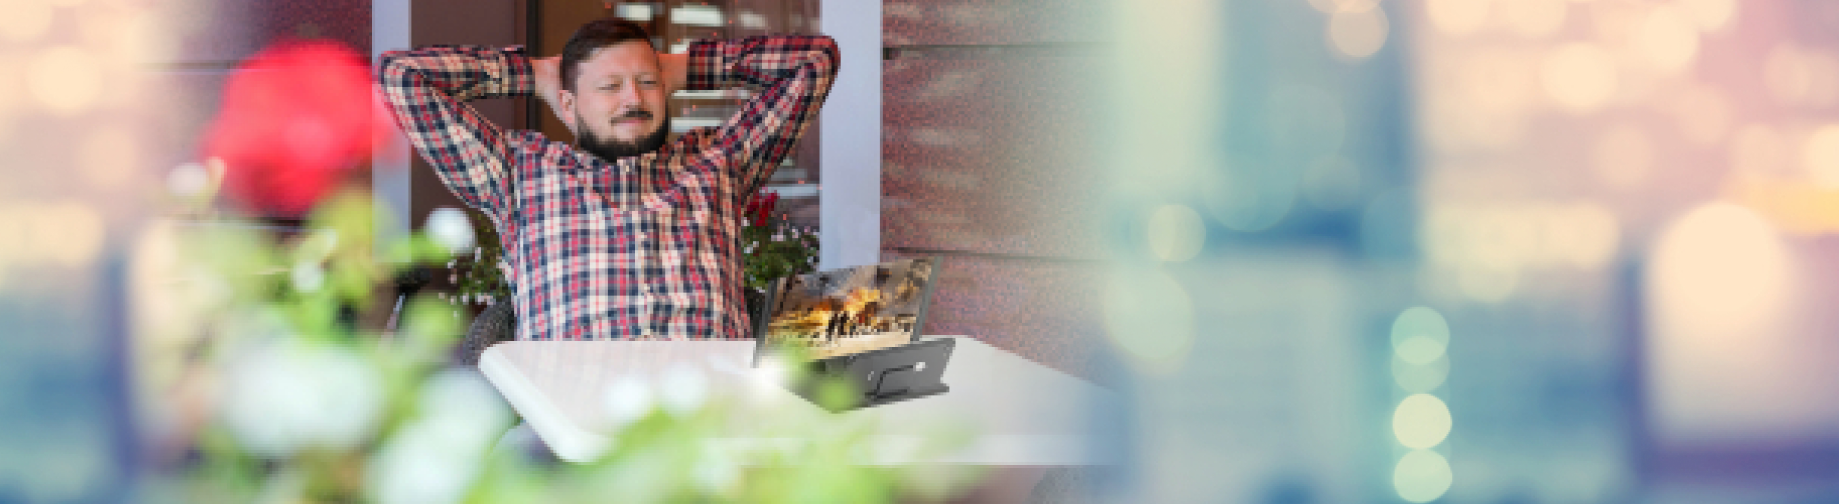
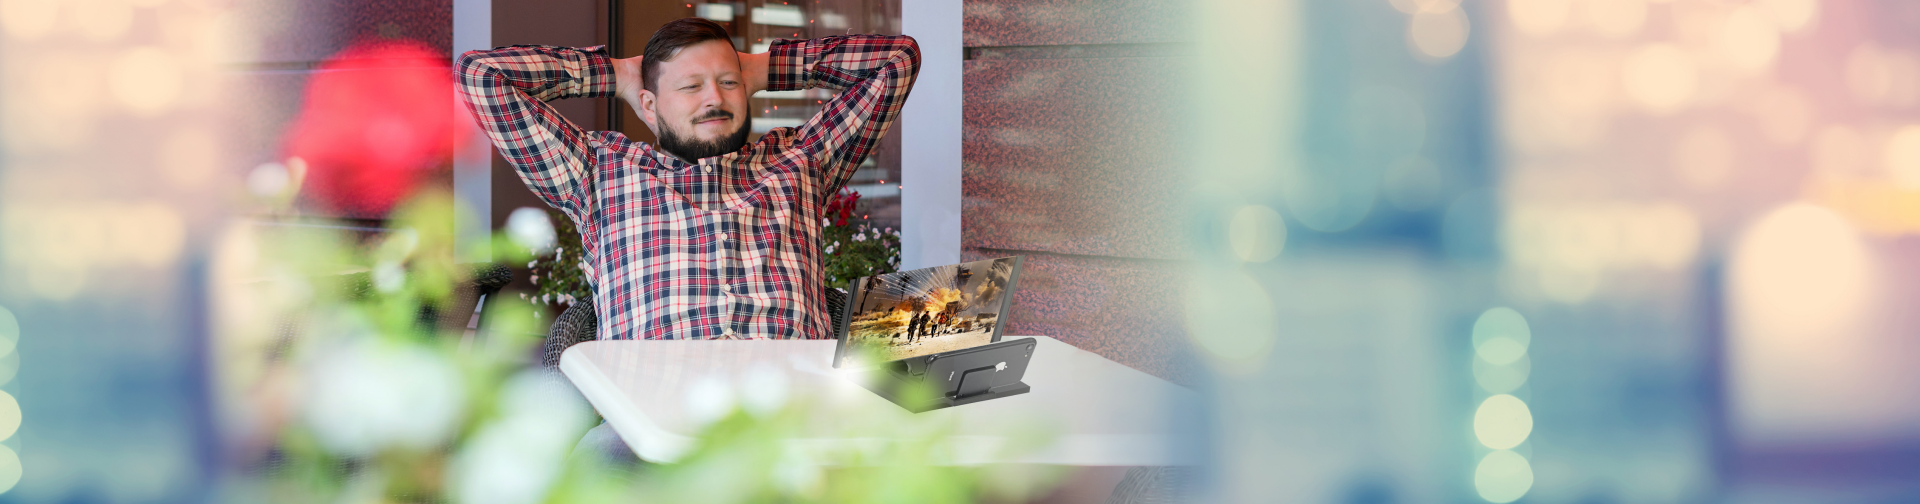
g

diff --git a/magnifier/apadt/ru/styles/css/main.css b/magnifier/apadt/ru/styles/css/main.css
@@ -1,2 +1,2 @@
-html{font-size:20.833333vw;overflow-x:hidden}@media (min-width: 481px){html{font-size:100px}}body{font-size:.20rem;margin:auto;position:relative;line-height:1.4;font-weight:300;font-family:'Open Sans', sans-serif;color:#fff;overflow-x:hidden;-webkit-box-shadow:0 0 2px 2px rgba(0,0,0,0.25);box-shadow:0 0 2px 2px rgba(0,0,0,0.25)}body input,body textarea{outline:none}body input:focus:required:invalid,body textarea:focus:required:invalid{border-color:red}body input:required:valid,body textarea:required:valid{border-color:green}.play{font-family:'Playfair Display', sans-serif}section{padding:.3rem 0}.img-wrap{display:-webkit-box;display:-ms-flexbox;display:flex;-webkit-box-align:center;-ms-flex-align:center;align-items:center;-webkit-box-pack:center;-ms-flex-pack:center;justify-content:center}.img-wrap img{width:100%}.img-wrap.pad{padding:.2rem 0}.img-wrap.mar{margin:.2rem 0}.content{padding:0 .13rem;max-width:13rem;margin:0 auto}.bg-light{background-color:#c7ebf5}.no-pad{margin-left:-0.13rem;margin-right:-0.13rem;display:block;width:4.8rem}.heading{padding:.2rem 0}h2{text-align:center;font-size:0.30rem;font-weight:800;margin:0 0 0.2rem 0;bottom:.5rem;line-height:1.3}h2.right{text-align:right}h2.big{font-size:0.4rem}h2.black{color:#000}h2.vait{color:vait}h2 span{color:#0077C0}h2.upp{text-transform:uppercase}h2 b.prod{text-transform:uppercase;font-weight:bold}h2 .offer{text-transform:uppercase}.sub-title{font-style:italic;font-size:0.2rem;color:#323842}.t-center{text-align:center}.t-white{color:#fff}span.accent{color:#0077C0}h2+p{margin-top:0}.btn{display:-webkit-box;display:-ms-flexbox;display:flex;-webkit-box-orient:horizontal;-webkit-box-direction:normal;-ms-flex-direction:row;flex-direction:row;-webkit-box-pack:center;-ms-flex-pack:center;justify-content:center;-webkit-box-align:center;-ms-flex-align:center;align-items:center;-ms-flex-wrap:nowrap;flex-wrap:nowrap;border-radius:0px 0px 5px 5px;background-image:url(../../img/button.png);background-size:cover;color:#000000;text-transform:uppercase;font-weight:800;text-decoration:none;font-size:0.2rem;border:none;height:1.48rem;width:4.26rem;margin:0 auto;position:relative;margin-bottom:-0.1rem;background-color:transparent}.btn span{position:relative;padding-bottom:0.35rem}.border__top{width:4.8rem;position:absolute;top:-0.28rem;left:0;right:0}.border__bot{width:4.8rem;position:absolute;bottom:-0.28rem;left:0;right:0}@-webkit-keyframes btn{0%{-webkit-transform:scale(1);transform:scale(1)}50%{-webkit-transform:scale(1.06);transform:scale(1.06)}100%{-webkit-transform:scale(1);transform:scale(1)}}@keyframes btn{0%{-webkit-transform:scale(1);transform:scale(1)}50%{-webkit-transform:scale(1.06);transform:scale(1.06)}100%{-webkit-transform:scale(1);transform:scale(1)}}.pulse__btn{position:fixed;right:0.2rem;display:inline-block;bottom:0.2rem;z-index:12;-webkit-box-shadow:0 0 0 rgba(11,138,44,0.4);box-shadow:0 0 0 rgba(11,138,44,0.4);width:0.7rem;height:0.7rem;border-radius:50%;-webkit-animation:pulse 2s infinite;animation:pulse 2s infinite;-webkit-transition:all .9s ease;transition:all .9s ease}.pulse__btn.show{right:-100%}.pulse__btn img{width:100%}img{width:100%}input[type="number"]::-webkit-outer-spin-button,input[type="number"]::-webkit-inner-spin-button{-webkit-appearance:none;margin:0}input[type="number"]{-moz-appearance:textfield}input[type="number"]:hover,input[type="number"]:focus{-moz-appearance:number-input}input[type=number]::-webkit-inner-spin-button,input[type=number]::-webkit-outer-spin-button{-webkit-appearance:none;margin:0}form{-webkit-box-sizing:border-box;box-sizing:border-box;margin:auto;display:-webkit-box;display:-ms-flexbox;display:flex;-webkit-box-align:center;-ms-flex-align:center;align-items:center;-webkit-box-orient:vertical;-webkit-box-direction:normal;-ms-flex-direction:column;flex-direction:column;padding-top:0.1rem}input,textarea{height:.75rem;width:3.9rem;padding-left:0.3rem;-webkit-box-sizing:border-box;box-sizing:border-box;border-radius:4px;font-size:0.16rem;color:#000;border:none;margin-bottom:0.4rem;background:#FFFFFF;border-radius:1px;background:#FFFFFF;-webkit-box-shadow:inset 0px 4px 15px rgba(0,0,0,0.15);box-shadow:inset 0px 4px 15px rgba(0,0,0,0.15);font-weight:normal;border-radius:40px;margin-bottom:0.1rem;line-height:1.8}@media (min-width: 772px){input,textarea{margin-bottom:0.1rem}}[name="phone"]{margin-bottom:0.2rem}input::-webkit-input-placeholder{font-size:0.22rem;font-family:inherit}input:-ms-input-placeholder{font-size:0.22rem;font-family:inherit}input::-ms-input-placeholder{font-size:0.22rem;font-family:inherit}input::placeholder{font-size:0.22rem;font-family:inherit}.policy_wrap{display:-webkit-box;display:-ms-flexbox;display:flex;-webkit-box-align:center;-ms-flex-align:center;align-items:center;-webkit-box-pack:center;-ms-flex-pack:center;justify-content:center;-webkit-box-orient:vertical;-webkit-box-direction:normal;-ms-flex-direction:column;flex-direction:column;min-height:1rem;background-color:#3b3c3d;font-size:0.16rem;color:#fff;text-align:center}.policy_wrap a{color:#7c7e86}@-webkit-keyframes pulse{0%{-webkit-box-shadow:0 0 0 rgba(11,138,44,0.4);box-shadow:0 0 0 rgba(11,138,44,0.4);transform:scale(1);-webkit-transform:scale(1);-moz-transform:scale(1);-ms-transform:scale(1);-o-transform:scale(1)}70%{-webkit-box-shadow:0 0 0 30px rgba(11,138,44,0);box-shadow:0 0 0 30px rgba(11,138,44,0);transform:scale(0.95);-webkit-transform:scale(0.95);-moz-transform:scale(0.95);-ms-transform:scale(0.95);-o-transform:scale(0.95)}100%{-webkit-box-shadow:0 0 0 0 rgba(11,138,44,0);box-shadow:0 0 0 0 rgba(11,138,44,0);-webkit-transform:scale(1);transform:scale(1)}}@keyframes pulse{0%{-webkit-box-shadow:0 0 0 rgba(11,138,44,0.4);box-shadow:0 0 0 rgba(11,138,44,0.4);transform:scale(1);-webkit-transform:scale(1);-moz-transform:scale(1);-ms-transform:scale(1);-o-transform:scale(1)}70%{-webkit-box-shadow:0 0 0 30px rgba(11,138,44,0);box-shadow:0 0 0 30px rgba(11,138,44,0);transform:scale(0.95);-webkit-transform:scale(0.95);-moz-transform:scale(0.95);-ms-transform:scale(0.95);-o-transform:scale(0.95)}100%{-webkit-box-shadow:0 0 0 0 rgba(11,138,44,0);box-shadow:0 0 0 0 rgba(11,138,44,0);-webkit-transform:scale(1);transform:scale(1)}}@-webkit-keyframes arrows{0%{-webkit-transform:translateX(0) translateY(-50%);transform:translateX(0) translateY(-50%)}50%{-webkit-transform:translateX(0.1rem) translateY(-50%);transform:translateX(0.1rem) translateY(-50%)}100%{-webkit-transform:translateX(0) translateY(-50%);transform:translateX(0) translateY(-50%)}}@keyframes arrows{0%{-webkit-transform:translateX(0) translateY(-50%);transform:translateX(0) translateY(-50%)}50%{-webkit-transform:translateX(0.1rem) translateY(-50%);transform:translateX(0.1rem) translateY(-50%)}100%{-webkit-transform:translateX(0) translateY(-50%);transform:translateX(0) translateY(-50%)}}@-webkit-keyframes arrows-reverse{0%{-webkit-transform:translateX(0) translateY(-50%);transform:translateX(0) translateY(-50%)}50%{-webkit-transform:translateX(-0.1rem) translateY(-50%);transform:translateX(-0.1rem) translateY(-50%)}100%{-webkit-transform:translateX(0) translateY(-50%);transform:translateX(0) translateY(-50%)}}@keyframes arrows-reverse{0%{-webkit-transform:translateX(0) translateY(-50%);transform:translateX(0) translateY(-50%)}50%{-webkit-transform:translateX(-0.1rem) translateY(-50%);transform:translateX(-0.1rem) translateY(-50%)}100%{-webkit-transform:translateX(0) translateY(-50%);transform:translateX(0) translateY(-50%)}}.reviews__item{padding:.2rem;background-color:#fff;-webkit-box-shadow:0px 0px 10px rgba(0,0,0,0.25);box-shadow:0px 0px 10px rgba(0,0,0,0.25);margin:0.1rem;position:relative}.reviews__item:before{content:'';position:absolute;left:0;top:0.22rem;height:0.5rem;width:4px;background:#306EC7}.reviews__item:after{content:url(../../img/que.png);width:0.3rem;position:absolute;top:0.3rem;right:0.4rem}.reviews__item .name{margin-bottom:0;font-weight:bold}.reviews__title{font-weight:600;text-transform:uppercase}.owl-carousel .owl-dots{padding:0.2rem 0;display:-webkit-box;display:-ms-flexbox;display:flex;-webkit-box-pack:center;-ms-flex-pack:center;justify-content:center;-webkit-box-align:center;-ms-flex-align:center;align-items:center}.owl-carousel .owl-dots button{width:0.46rem;height:0.1rem;border-radius:20px;outline:none;background-color:#fff;margin:0 3px}.owl-carousel .owl-dots button.active{background-color:#306EC7}.timer{color:#000}.timer__wrapper,.timer__desc{display:-webkit-box;display:-ms-flexbox;display:flex;-webkit-box-orient:horizontal;-webkit-box-direction:normal;-ms-flex-direction:row;flex-direction:row;-ms-flex-pack:distribute;justify-content:space-around;-webkit-box-align:center;-ms-flex-align:center;align-items:center;-ms-flex-wrap:nowrap;flex-wrap:nowrap;font-size:0.43rem;max-width:3.0rem;font-weight:300;margin:auto}.timer__wrapper>div,.timer__desc>div{width:1rem;text-align:center;font-weight:bold}.timer__title{text-align:center;margin:0 0 0.23rem}@media (min-width: 772px){.timer__title{margin-bottom:0.1rem}}.timer__desc{font-size:0.16rem;font-weight:300;text-transform:uppercase}.timer__desc span{display:inline-block;width:1rem;text-align:center}.intro{background:#efefef;padding-bottom:0.1rem}@media (min-width: 772px){.intro{background-image:url(../../img/header_desc.png);background-size:cover;background-position:-4rem;display:-webkit-box;display:-ms-flexbox;display:flex;-webkit-box-orient:vertical;-webkit-box-direction:normal;-ms-flex-direction:column;flex-direction:column;-webkit-box-pack:center;-ms-flex-pack:center;justify-content:center;-webkit-box-align:center;-ms-flex-align:center;align-items:center;-ms-flex-wrap:nowrap;flex-wrap:nowrap;position:relative}.intro:before{content:url(../../img/prod.png);position:absolute;left:0;bottom:-10px}}@media (min-width: 772px){.intro__top{width:100%}}.intro__top p:first-child{height:0.78rem;text-align:center;margin:0;display:-webkit-box;display:-ms-flexbox;display:flex;-webkit-box-orient:horizontal;-webkit-box-direction:normal;-ms-flex-direction:row;flex-direction:row;-webkit-box-pack:center;-ms-flex-pack:center;justify-content:center;-webkit-box-align:center;-ms-flex-align:center;align-items:center;-ms-flex-wrap:nowrap;flex-wrap:nowrap;background:-webkit-gradient(linear, left top, left bottom, from(#e9622a), to(#ed3233));background:linear-gradient(180deg, #e9622a 0%, #ed3233 100%);font-weight:800;font-size:0.35rem;line-height:0.48rem;text-align:center;text-transform:uppercase}.intro__top p:last-child{width:100%;margin:0;background-color:#fff;width:100%;padding:.1rem;color:#000;text-align:center;text-transform:uppercase;font-weight:bold}.intro__main{position:relative;background-image:url(../../img/intro.jpg);height:3.9rem;background-size:cover}@media (min-width: 481px){.intro__main{height:6rem}}@media (min-width: 772px){.intro__main{background-image:none;height:0;width:100%}}.intro__trigger .sale{position:absolute;top:0.32rem;right:0;background-image:url(../../img/intro_new.png);font-size:0.18rem;background-size:cover;width:1.6rem;height:0.84rem;background-repeat:no-repeat;display:-webkit-box;display:-ms-flexbox;display:flex;-webkit-box-orient:vertical;-webkit-box-direction:normal;-ms-flex-direction:column;flex-direction:column;-webkit-box-pack:center;-ms-flex-pack:center;justify-content:center;-webkit-box-align:center;-ms-flex-align:center;align-items:center;-ms-flex-wrap:nowrap;flex-wrap:nowrap}@media (min-width: 772px){.intro__trigger .sale{background-image:url(../../img/plank.png);position:absolute;top:0;left:10%}}@media (max-width: 480px){.intro__trigger .sale{right:0}}.intro__trigger .sale b{font-size:0.13rem;font-weight:bold;display:block}.intro__trigger .sale b:last-child{font-size:0.2rem}.intro__footer{text-align:center;padding-bottom:0.2rem;margin:0 0.3rem;color:#000;font-weight:bold}@media (min-width: 772px){.intro__footer{max-width:4.8rem;margin-left:auto;margin-right:auto;padding:0 .3rem;-webkit-box-sizing:border-box;box-sizing:border-box}.intro__footer p{margin-bottom:0}}.intro__item{margin:0 0.15rem;-webkit-box-sizing:border-box;box-sizing:border-box;font-size:0.18rem}.intro__item img{width:0.76rem;-ms-flex-negative:0;flex-shrink:0}.intro__item p{margin:0}.intro__wrapper{position:relative}@media (min-width: 772px){.intro__wrapper{margin-left:auto;margin-right:10%;margin-top:0.4rem;margin-bottom:0.4rem;width:4.8rem;margin-left:auto;background-color:#F1F1F1;display:-webkit-box;display:-ms-flexbox;display:flex;-webkit-box-orient:vertical;-webkit-box-direction:normal;-ms-flex-direction:column;flex-direction:column;-webkit-box-pack:center;-ms-flex-pack:center;justify-content:center;-webkit-box-align:center;-ms-flex-align:center;align-items:center;-ms-flex-wrap:nowrap;flex-wrap:nowrap;border-radius:20px;-webkit-box-sizing:border-box;box-sizing:border-box}.intro__wrapper .btn{margin-left:auto;margin-right:auto;width:4rem}}.intro__bottom{-webkit-box-sizing:border-box;box-sizing:border-box;padding-bottom:0.2rem}.price{max-width:4.8rem;background-image:url(../../img/sale.png);background-size:cover;display:-webkit-box;display:-ms-flexbox;display:flex;-webkit-box-orient:horizontal;-webkit-box-direction:normal;-ms-flex-direction:row;flex-direction:row;-ms-flex-pack:distribute;justify-content:space-around;-webkit-box-align:center;-ms-flex-align:center;align-items:center;-ms-flex-wrap:nowrap;flex-wrap:nowrap;height:1.58rem;margin:0;position:relative;margin-top:-0.28rem;text-align:center;line-height:0.32rem;font-weight:bold;color:#000;margin-left:auto;margin-right:auto}.price div{width:1.6rem}.price .old{color:#9a9999}.price .old s{font-weight:normal}.price p{margin:0;font-size:0.15rem;padding-bottom:0.1rem}.price .discount{padding-right:0.1rem;padding-top:0.3rem;color:#fff}.price .discount p{font-weight:normal}.price .discount b{font-weight:800;font-size:0.45rem}.price b,.price s{font-size:0.6rem}.sect5{color:#000}.sect5__grid{display:-ms-grid;display:grid;-ms-grid-columns:(1fr)[2];grid-template-columns:repeat(2, 1fr);text-align:center;grid-gap:0.19rem;padding-top:0.35rem;font-size:0.22rem;max-width:800px;margin:0 auto}.sect5__grid b{display:block}.sect5__grid p{margin-top:0;font-weight:400;line-height:0.26rem}@media (min-width: 772px){.sect5__row{max-width:50%;-ms-grid-column-align:center;justify-self:center}}.sect5 img{width:1.16rem;padding-bottom:0.24rem}.builets{margin-top:0.6rem;max-width:4.8rem;margin-left:auto;margin-right:auto;display:-webkit-box;display:-ms-flexbox;display:flex;-webkit-box-orient:horizontal;-webkit-box-direction:normal;-ms-flex-direction:row;flex-direction:row;-ms-flex-pack:distribute;justify-content:space-around;-webkit-box-align:center;-ms-flex-align:center;align-items:center;-ms-flex-wrap:nowrap;flex-wrap:nowrap}@media (min-width: 772px){.builets{padding:0 .15rem;-webkit-box-sizing:border-box;box-sizing:border-box;width:4.8rem}}.builets__item{display:-webkit-box;display:-ms-flexbox;display:flex;-webkit-box-orient:horizontal;-webkit-box-direction:normal;-ms-flex-direction:row;flex-direction:row;-webkit-box-pack:center;-ms-flex-pack:center;justify-content:center;-webkit-box-align:end;-ms-flex-align:end;align-items:flex-end;-ms-flex-wrap:nowrap;flex-wrap:nowrap;background-color:#ffffff;width:1.44rem;height:1.32rem;border-radius:20px;position:relative;padding:0.2rem;-webkit-box-sizing:border-box;box-sizing:border-box}.builets__item img{height:0.78rem;width:0.79rem;-ms-flex-negative:0;flex-shrink:0;position:absolute;left:0;right:0;margin:0 auto;top:0;-webkit-transform:translateY(-50%);transform:translateY(-50%)}.builets__item p{text-align:center;color:#000;margin:0;font-weight:bold}.sect1{background:-webkit-gradient(linear, left top, left bottom, from(#ba1a5d), color-stop(99.39%, #306ec7));background:linear-gradient(180deg, #ba1a5d 0%, #306ec7 99.39%);padding-bottom:0}@media (min-width: 1200px){.sect1{padding:.4rem 0;padding-top:1rem}}.sect1 p{margin:0 0 0.34rem 0;font-weight:normal}.sect1__list{display:-webkit-box;display:-ms-flexbox;display:flex;-webkit-box-orient:vertical;-webkit-box-direction:normal;-ms-flex-direction:column;flex-direction:column;-webkit-box-pack:start;-ms-flex-pack:start;justify-content:flex-start;-webkit-box-align:stretch;-ms-flex-align:stretch;align-items:stretch;-ms-flex-wrap:nowrap;flex-wrap:nowrap;padding-top:0.3rem}@media (min-width: 481px){.sect1__list{margin:0 auto;max-width:4.8rem}}@media (min-width: 1200px){.sect1__list{display:-ms-grid;display:grid;-ms-grid-columns:(1fr)[2];grid-template-columns:repeat(2, 1fr);max-width:100%}}.sect1__item{margin-bottom:0.3rem;display:-webkit-box;display:-ms-flexbox;display:flex;-webkit-box-orient:horizontal;-webkit-box-direction:normal;-ms-flex-direction:row;flex-direction:row;-webkit-box-pack:start;-ms-flex-pack:start;justify-content:flex-start;-webkit-box-align:stretch;-ms-flex-align:stretch;align-items:stretch;-ms-flex-wrap:nowrap;flex-wrap:nowrap}.sect1__item img{width:0.52rem;-ms-flex-negative:0;flex-shrink:0}.sect1__item p{font-weight:bold;padding-left:0.1rem;-ms-flex-item-align:center;-ms-grid-row-align:center;align-self:center;margin:0}@media (min-width: 481px){.sect1 .no-pad{margin:0 auto;-ms-flex-negative:0;flex-shrink:0}}@media (min-width: 1200px){.sect1 .content{display:-webkit-box;display:-ms-flexbox;display:flex;-webkit-box-orient:horizontal;-webkit-box-direction:normal;-ms-flex-direction:row;flex-direction:row;-webkit-box-pack:start;-ms-flex-pack:start;justify-content:flex-start;-webkit-box-align:start;-ms-flex-align:start;align-items:flex-start;-ms-flex-wrap:nowrap;flex-wrap:nowrap}.sect1 .content .no-pad{margin-right:0.2rem;width:50%}}.sect2{background-color:#f1f1f1;color:#000;padding-bottom:0;margin-bottom:-0.1rem}.sect2__content{padding:0 0.2rem}@media (max-width: 1100px){.sect2__content .man{display:none}}@media (min-width: 481px){.sect2__content{display:-webkit-box;display:-ms-flexbox;display:flex;-webkit-box-orient:vertical;-webkit-box-direction:normal;-ms-flex-direction:column;flex-direction:column;-webkit-box-pack:center;-ms-flex-pack:center;justify-content:center;-webkit-box-align:center;-ms-flex-align:center;align-items:center;-ms-flex-wrap:nowrap;flex-wrap:nowrap}}@media (min-width: 1100px){.sect2__content{display:-ms-grid;display:grid;-ms-grid-columns:(4.8rem)[2];grid-template-columns:repeat(2, 4.8rem);-webkit-box-pack:center;-ms-flex-pack:center;justify-content:center;max-width:8rem;margin:0 auto}.sect2__content img{width:100%}.sect2__content img.another{width:100%}}.sect2 img{max-width:4.8rem}.sect2 img.another{width:4.8rem;display:block}@media (max-width: 480px){.sect2 img.another{width:4.2rem;margin:0 auto}}.sect2__item{-webkit-box-shadow:0px 0px 10px rgba(0,0,0,0.25);box-shadow:0px 0px 10px rgba(0,0,0,0.25);border-radius:10px;background-color:#fff;line-height:1.3;margin:0.1rem;margin-bottom:0.2rem;margin-right:0.2rem;position:relative;z-index:2;max-width:4.6rem;-webkit-box-sizing:border-box;box-sizing:border-box}@media (min-width: 1400px){.sect2__item{-ms-flex-negative:0;flex-shrink:0}}.sect2__item:before{content:"";position:absolute;top:0rem;bottom:0rem;right:-0.1rem;width:0.4rem;border-radius:10px;background:-webkit-gradient(linear, left top, left bottom, from(#ba1a5d), color-stop(99.39%, #306ec7));background:linear-gradient(180deg, #ba1a5d 0%, #306ec7 99.39%);z-index:-1}.sect2__item p{margin:0;height:100%;width:100%;border-radius:10px;padding:0.2rem;-webkit-box-sizing:border-box;box-sizing:border-box;background-color:#fff;position:relative}.sect3{background:-webkit-gradient(linear, left top, left bottom, from(#ba1a5d), color-stop(99.39%, #306ec7));background:linear-gradient(180deg, #ba1a5d 0%, #306ec7 99.39%)}@media (min-width: 480px){.sect3__wrapper{max-width:4.8rem;margin:0 auto}}@media (min-width: 980px){.sect3__wrapper{display:-webkit-box;display:-ms-flexbox;display:flex;-webkit-box-orient:horizontal;-webkit-box-direction:normal;-ms-flex-direction:row;flex-direction:row;-webkit-box-pack:center;-ms-flex-pack:center;justify-content:center;-webkit-box-align:center;-ms-flex-align:center;align-items:center;-ms-flex-wrap:nowrap;flex-wrap:nowrap;max-width:900px;margin:0 auto}}.sect3__content{padding:.35rem 0}.sect3__item{display:-webkit-box;display:-ms-flexbox;display:flex;-webkit-box-orient:horizontal;-webkit-box-direction:normal;-ms-flex-direction:row;flex-direction:row;-webkit-box-pack:start;-ms-flex-pack:start;justify-content:flex-start;-webkit-box-align:center;-ms-flex-align:center;align-items:center;-ms-flex-wrap:nowrap;flex-wrap:nowrap;margin-bottom:0.15rem}.sect3__item:last-child{margin-bottom:0}.sect3__item p{margin:0}.sect3__item span{width:0.42rem;height:0.42rem;display:-webkit-box;display:-ms-flexbox;display:flex;-webkit-box-align:center;-ms-flex-align:center;align-items:center;-webkit-box-pack:center;-ms-flex-pack:center;justify-content:center;-ms-flex-negative:0;flex-shrink:0;background:-webkit-gradient(linear, left top, left bottom, from(#fff), to(#d765c1));background:linear-gradient(180deg, #fff 0%, #d765c1 100%);-webkit-box-shadow:0px 4px 4px rgba(0,0,0,0.25);box-shadow:0px 4px 4px rgba(0,0,0,0.25);border-radius:50%;color:#000;font-weight:bold;margin-right:0.3rem}.sect4{color:#000;background-color:#E5E5E5}.list{list-style:none;padding:0;margin:0;padding:0.2rem 0}.list__item{position:relative;padding-left:0.35rem}.list__item:not(:last-child){margin-bottom:0.15rem}.list__item:before{content:"";background-image:url(../../img/tick.svg);background-size:contain;display:block;width:0.24rem;height:0.24rem;position:absolute;left:0;top:0}.desc{display:none}@media (min-width: 772px){.desc{display:block}}.mob{display:block}@media (min-width: 772px){.mob{display:none}}
+html{font-size:20.833333vw;overflow-x:hidden}@media (min-width: 481px){html{font-size:100px}}body{font-size:.20rem;margin:auto;position:relative;line-height:1.4;font-weight:300;font-family:'Open Sans', sans-serif;color:#fff;overflow-x:hidden;-webkit-box-shadow:0 0 2px 2px rgba(0,0,0,0.25);box-shadow:0 0 2px 2px rgba(0,0,0,0.25)}body input,body textarea{outline:none}body input:focus:required:invalid,body textarea:focus:required:invalid{border-color:red}body input:required:valid,body textarea:required:valid{border-color:green}.play{font-family:'Playfair Display', sans-serif}section{padding:.3rem 0}.img-wrap{display:-webkit-box;display:-ms-flexbox;display:flex;-webkit-box-align:center;-ms-flex-align:center;align-items:center;-webkit-box-pack:center;-ms-flex-pack:center;justify-content:center}.img-wrap img{width:100%}.img-wrap.pad{padding:.2rem 0}.img-wrap.mar{margin:.2rem 0}.content{padding:0 .13rem;max-width:13rem;margin:0 auto}.bg-light{background-color:#c7ebf5}.no-pad{margin-left:-0.13rem;margin-right:-0.13rem;display:block;width:4.8rem}.heading{padding:.2rem 0}h2{text-align:center;font-size:0.30rem;font-weight:800;margin:0 0 0.2rem 0;bottom:.5rem;line-height:1.3}h2.right{text-align:right}h2.big{font-size:0.4rem}h2.black{color:#000}h2.vait{color:vait}h2 span{color:#0077C0}h2.upp{text-transform:uppercase}h2 b.prod{text-transform:uppercase;font-weight:bold}h2 .offer{text-transform:uppercase}.sub-title{font-style:italic;font-size:0.2rem;color:#323842}.t-center{text-align:center}.t-white{color:#fff}span.accent{color:#0077C0}h2+p{margin-top:0}.btn{display:-webkit-box;display:-ms-flexbox;display:flex;-webkit-box-orient:horizontal;-webkit-box-direction:normal;-ms-flex-direction:row;flex-direction:row;-webkit-box-pack:center;-ms-flex-pack:center;justify-content:center;-webkit-box-align:center;-ms-flex-align:center;align-items:center;-ms-flex-wrap:nowrap;flex-wrap:nowrap;border-radius:0px 0px 5px 5px;background-image:url(../../img/button.png);background-size:cover;color:#000000;text-transform:uppercase;font-weight:800;text-decoration:none;font-size:0.2rem;border:none;height:1.48rem;width:4.26rem;margin:0 auto;position:relative;margin-bottom:-0.1rem;background-color:transparent}.btn span{position:relative;padding-bottom:0.35rem}.border__top{width:4.8rem;position:absolute;top:-0.28rem;left:0;right:0}.border__bot{width:4.8rem;position:absolute;bottom:-0.28rem;left:0;right:0}@-webkit-keyframes btn{0%{-webkit-transform:scale(1);transform:scale(1)}50%{-webkit-transform:scale(1.06);transform:scale(1.06)}100%{-webkit-transform:scale(1);transform:scale(1)}}@keyframes btn{0%{-webkit-transform:scale(1);transform:scale(1)}50%{-webkit-transform:scale(1.06);transform:scale(1.06)}100%{-webkit-transform:scale(1);transform:scale(1)}}.pulse__btn{position:fixed;right:0.2rem;display:inline-block;bottom:0.2rem;z-index:12;-webkit-box-shadow:0 0 0 rgba(11,138,44,0.4);box-shadow:0 0 0 rgba(11,138,44,0.4);width:0.7rem;height:0.7rem;border-radius:50%;-webkit-animation:pulse 2s infinite;animation:pulse 2s infinite;-webkit-transition:all .9s ease;transition:all .9s ease}.pulse__btn.show{right:-100%}.pulse__btn img{width:100%}img{width:100%}input[type="number"]::-webkit-outer-spin-button,input[type="number"]::-webkit-inner-spin-button{-webkit-appearance:none;margin:0}input[type="number"]{-moz-appearance:textfield}input[type="number"]:hover,input[type="number"]:focus{-moz-appearance:number-input}input[type=number]::-webkit-inner-spin-button,input[type=number]::-webkit-outer-spin-button{-webkit-appearance:none;margin:0}form{-webkit-box-sizing:border-box;box-sizing:border-box;margin:auto;display:-webkit-box;display:-ms-flexbox;display:flex;-webkit-box-align:center;-ms-flex-align:center;align-items:center;-webkit-box-orient:vertical;-webkit-box-direction:normal;-ms-flex-direction:column;flex-direction:column;padding-top:0.1rem}input,textarea{height:.75rem;width:3.9rem;padding-left:0.3rem;-webkit-box-sizing:border-box;box-sizing:border-box;border-radius:4px;font-size:0.16rem;color:#000;border:none;margin-bottom:0.4rem;background:#FFFFFF;border-radius:1px;background:#FFFFFF;-webkit-box-shadow:inset 0px 4px 15px rgba(0,0,0,0.15);box-shadow:inset 0px 4px 15px rgba(0,0,0,0.15);font-weight:normal;border-radius:40px;margin-bottom:0.1rem;line-height:1.8}@media (min-width: 772px){input,textarea{margin-bottom:0.1rem}}[name="phone"]{margin-bottom:0.2rem}input::-webkit-input-placeholder{font-size:0.22rem;font-family:inherit}input:-ms-input-placeholder{font-size:0.22rem;font-family:inherit}input::-ms-input-placeholder{font-size:0.22rem;font-family:inherit}input::placeholder{font-size:0.22rem;font-family:inherit}.policy_wrap{display:-webkit-box;display:-ms-flexbox;display:flex;-webkit-box-align:center;-ms-flex-align:center;align-items:center;-webkit-box-pack:center;-ms-flex-pack:center;justify-content:center;-webkit-box-orient:vertical;-webkit-box-direction:normal;-ms-flex-direction:column;flex-direction:column;min-height:1rem;background-color:#3b3c3d;font-size:0.16rem;color:#fff;text-align:center}.policy_wrap a{color:#7c7e86}@-webkit-keyframes pulse{0%{-webkit-box-shadow:0 0 0 rgba(11,138,44,0.4);box-shadow:0 0 0 rgba(11,138,44,0.4);transform:scale(1);-webkit-transform:scale(1);-moz-transform:scale(1);-ms-transform:scale(1);-o-transform:scale(1)}70%{-webkit-box-shadow:0 0 0 30px rgba(11,138,44,0);box-shadow:0 0 0 30px rgba(11,138,44,0);transform:scale(0.95);-webkit-transform:scale(0.95);-moz-transform:scale(0.95);-ms-transform:scale(0.95);-o-transform:scale(0.95)}100%{-webkit-box-shadow:0 0 0 0 rgba(11,138,44,0);box-shadow:0 0 0 0 rgba(11,138,44,0);-webkit-transform:scale(1);transform:scale(1)}}@keyframes pulse{0%{-webkit-box-shadow:0 0 0 rgba(11,138,44,0.4);box-shadow:0 0 0 rgba(11,138,44,0.4);transform:scale(1);-webkit-transform:scale(1);-moz-transform:scale(1);-ms-transform:scale(1);-o-transform:scale(1)}70%{-webkit-box-shadow:0 0 0 30px rgba(11,138,44,0);box-shadow:0 0 0 30px rgba(11,138,44,0);transform:scale(0.95);-webkit-transform:scale(0.95);-moz-transform:scale(0.95);-ms-transform:scale(0.95);-o-transform:scale(0.95)}100%{-webkit-box-shadow:0 0 0 0 rgba(11,138,44,0);box-shadow:0 0 0 0 rgba(11,138,44,0);-webkit-transform:scale(1);transform:scale(1)}}@-webkit-keyframes arrows{0%{-webkit-transform:translateX(0) translateY(-50%);transform:translateX(0) translateY(-50%)}50%{-webkit-transform:translateX(0.1rem) translateY(-50%);transform:translateX(0.1rem) translateY(-50%)}100%{-webkit-transform:translateX(0) translateY(-50%);transform:translateX(0) translateY(-50%)}}@keyframes arrows{0%{-webkit-transform:translateX(0) translateY(-50%);transform:translateX(0) translateY(-50%)}50%{-webkit-transform:translateX(0.1rem) translateY(-50%);transform:translateX(0.1rem) translateY(-50%)}100%{-webkit-transform:translateX(0) translateY(-50%);transform:translateX(0) translateY(-50%)}}@-webkit-keyframes arrows-reverse{0%{-webkit-transform:translateX(0) translateY(-50%);transform:translateX(0) translateY(-50%)}50%{-webkit-transform:translateX(-0.1rem) translateY(-50%);transform:translateX(-0.1rem) translateY(-50%)}100%{-webkit-transform:translateX(0) translateY(-50%);transform:translateX(0) translateY(-50%)}}@keyframes arrows-reverse{0%{-webkit-transform:translateX(0) translateY(-50%);transform:translateX(0) translateY(-50%)}50%{-webkit-transform:translateX(-0.1rem) translateY(-50%);transform:translateX(-0.1rem) translateY(-50%)}100%{-webkit-transform:translateX(0) translateY(-50%);transform:translateX(0) translateY(-50%)}}.reviews__item{padding:.2rem;background-color:#fff;-webkit-box-shadow:0px 0px 10px rgba(0,0,0,0.25);box-shadow:0px 0px 10px rgba(0,0,0,0.25);margin:0.1rem;position:relative}.reviews__item:before{content:'';position:absolute;left:0;top:0.22rem;height:0.5rem;width:4px;background:#306EC7}.reviews__item:after{content:url(../../img/que.png);width:0.3rem;position:absolute;top:0.3rem;right:0.4rem}.reviews__item .name{margin-bottom:0;font-weight:bold}.reviews__title{font-weight:600;text-transform:uppercase}.owl-carousel .owl-dots{padding:0.2rem 0;display:-webkit-box;display:-ms-flexbox;display:flex;-webkit-box-pack:center;-ms-flex-pack:center;justify-content:center;-webkit-box-align:center;-ms-flex-align:center;align-items:center}.owl-carousel .owl-dots button{width:0.46rem;height:0.1rem;border-radius:20px;outline:none;background-color:#fff;margin:0 3px}.owl-carousel .owl-dots button.active{background-color:#306EC7}.timer{color:#000}.timer__wrapper,.timer__desc{display:-webkit-box;display:-ms-flexbox;display:flex;-webkit-box-orient:horizontal;-webkit-box-direction:normal;-ms-flex-direction:row;flex-direction:row;-ms-flex-pack:distribute;justify-content:space-around;-webkit-box-align:center;-ms-flex-align:center;align-items:center;-ms-flex-wrap:nowrap;flex-wrap:nowrap;font-size:0.43rem;max-width:3.0rem;font-weight:300;margin:auto}.timer__wrapper>div,.timer__desc>div{width:1rem;text-align:center;font-weight:bold}.timer__title{text-align:center;margin:0 0 0.23rem}@media (min-width: 772px){.timer__title{margin-bottom:0.1rem}}.timer__desc{font-size:0.16rem;font-weight:300;text-transform:uppercase}.timer__desc span{display:inline-block;width:1rem;text-align:center}.intro{background:#efefef;padding-bottom:0.1rem}@media (min-width: 772px){.intro{background-image:url(../../img/header_desc.png);background-size:cover;background-position:center 1rem;background-repeat:no-repeat;display:-webkit-box;display:-ms-flexbox;display:flex;-webkit-box-orient:vertical;-webkit-box-direction:normal;-ms-flex-direction:column;flex-direction:column;-webkit-box-pack:center;-ms-flex-pack:center;justify-content:center;-webkit-box-align:center;-ms-flex-align:center;align-items:center;-ms-flex-wrap:nowrap;flex-wrap:nowrap;position:relative}.intro:before{content:url(../../img/prod.png);position:absolute;left:0;bottom:-10px}}@media (min-width: 772px){.intro__top{width:100%}}.intro__top p:first-child{height:0.78rem;text-align:center;margin:0;display:-webkit-box;display:-ms-flexbox;display:flex;-webkit-box-orient:horizontal;-webkit-box-direction:normal;-ms-flex-direction:row;flex-direction:row;-webkit-box-pack:center;-ms-flex-pack:center;justify-content:center;-webkit-box-align:center;-ms-flex-align:center;align-items:center;-ms-flex-wrap:nowrap;flex-wrap:nowrap;background:-webkit-gradient(linear, left top, left bottom, from(#e9622a), to(#ed3233));background:linear-gradient(180deg, #e9622a 0%, #ed3233 100%);font-weight:800;font-size:0.35rem;line-height:0.48rem;text-align:center;text-transform:uppercase}.intro__top p:last-child{width:100%;margin:0;background-color:#fff;width:100%;padding:.1rem;color:#000;text-align:center;text-transform:uppercase;font-weight:bold}.intro__main{position:relative;background-image:url(../../img/intro.jpg);height:3.9rem;background-size:cover}@media (min-width: 481px){.intro__main{height:6rem}}@media (min-width: 772px){.intro__main{background-image:none;height:0;width:100%}}.intro__trigger .sale{position:absolute;top:0.32rem;right:0;background-image:url(../../img/intro_new.png);font-size:0.18rem;background-size:cover;width:1.6rem;height:0.84rem;background-repeat:no-repeat;display:-webkit-box;display:-ms-flexbox;display:flex;-webkit-box-orient:vertical;-webkit-box-direction:normal;-ms-flex-direction:column;flex-direction:column;-webkit-box-pack:center;-ms-flex-pack:center;justify-content:center;-webkit-box-align:center;-ms-flex-align:center;align-items:center;-ms-flex-wrap:nowrap;flex-wrap:nowrap}@media (min-width: 772px){.intro__trigger .sale{background-image:url(../../img/plank.png);position:absolute;top:0;left:10%}}@media (max-width: 480px){.intro__trigger .sale{right:0}}.intro__trigger .sale b{font-size:0.13rem;font-weight:bold;display:block}.intro__trigger .sale b:last-child{font-size:0.2rem}.intro__footer{text-align:center;padding-bottom:0.2rem;margin:0 0.3rem;color:#000;font-weight:bold}@media (min-width: 772px){.intro__footer{max-width:4.8rem;margin-left:auto;margin-right:auto;padding:0 .3rem;-webkit-box-sizing:border-box;box-sizing:border-box}.intro__footer p{margin-bottom:0}}.intro__item{margin:0 0.15rem;-webkit-box-sizing:border-box;box-sizing:border-box;font-size:0.18rem}.intro__item img{width:0.76rem;-ms-flex-negative:0;flex-shrink:0}.intro__item p{margin:0}.intro__wrapper{position:relative}@media (min-width: 772px){.intro__wrapper{margin-left:auto;margin-right:10%;margin-top:0.4rem;margin-bottom:0.4rem;width:4.8rem;margin-left:auto;background-color:#F1F1F1;display:-webkit-box;display:-ms-flexbox;display:flex;-webkit-box-orient:vertical;-webkit-box-direction:normal;-ms-flex-direction:column;flex-direction:column;-webkit-box-pack:center;-ms-flex-pack:center;justify-content:center;-webkit-box-align:center;-ms-flex-align:center;align-items:center;-ms-flex-wrap:nowrap;flex-wrap:nowrap;border-radius:20px;-webkit-box-sizing:border-box;box-sizing:border-box}.intro__wrapper .btn{margin-left:auto;margin-right:auto;width:4rem}}.intro__bottom{-webkit-box-sizing:border-box;box-sizing:border-box;padding-bottom:0.2rem}.price{max-width:4.8rem;background-image:url(../../img/sale.png);background-size:cover;display:-webkit-box;display:-ms-flexbox;display:flex;-webkit-box-orient:horizontal;-webkit-box-direction:normal;-ms-flex-direction:row;flex-direction:row;-ms-flex-pack:distribute;justify-content:space-around;-webkit-box-align:center;-ms-flex-align:center;align-items:center;-ms-flex-wrap:nowrap;flex-wrap:nowrap;height:1.58rem;margin:0;position:relative;margin-top:-0.28rem;text-align:center;line-height:0.32rem;font-weight:bold;color:#000;margin-left:auto;margin-right:auto}.price div{width:1.6rem}.price .old{color:#9a9999}.price .old s{font-weight:normal}.price p{margin:0;font-size:0.15rem;padding-bottom:0.1rem}.price .discount{padding-right:0.1rem;padding-top:0.3rem;color:#fff}.price .discount p{font-weight:normal}.price .discount b{font-weight:800;font-size:0.45rem}.price b,.price s{font-size:0.6rem}.sect5{color:#000}.sect5__grid{display:-ms-grid;display:grid;-ms-grid-columns:(1fr)[2];grid-template-columns:repeat(2, 1fr);text-align:center;grid-gap:0.19rem;padding-top:0.35rem;font-size:0.22rem;max-width:800px;margin:0 auto}.sect5__grid b{display:block}.sect5__grid p{margin-top:0;font-weight:400;line-height:0.26rem}@media (min-width: 772px){.sect5__row{max-width:50%;-ms-grid-column-align:center;justify-self:center}}.sect5 img{width:1.16rem;padding-bottom:0.24rem}.builets{margin-top:0.6rem;max-width:4.8rem;margin-left:auto;margin-right:auto;display:-webkit-box;display:-ms-flexbox;display:flex;-webkit-box-orient:horizontal;-webkit-box-direction:normal;-ms-flex-direction:row;flex-direction:row;-ms-flex-pack:distribute;justify-content:space-around;-webkit-box-align:center;-ms-flex-align:center;align-items:center;-ms-flex-wrap:nowrap;flex-wrap:nowrap}@media (min-width: 772px){.builets{padding:0 .15rem;-webkit-box-sizing:border-box;box-sizing:border-box;width:4.8rem}}.builets__item{display:-webkit-box;display:-ms-flexbox;display:flex;-webkit-box-orient:horizontal;-webkit-box-direction:normal;-ms-flex-direction:row;flex-direction:row;-webkit-box-pack:center;-ms-flex-pack:center;justify-content:center;-webkit-box-align:end;-ms-flex-align:end;align-items:flex-end;-ms-flex-wrap:nowrap;flex-wrap:nowrap;background-color:#ffffff;width:1.44rem;height:1.32rem;border-radius:20px;position:relative;padding:0.2rem;-webkit-box-sizing:border-box;box-sizing:border-box}.builets__item img{height:0.78rem;width:0.79rem;-ms-flex-negative:0;flex-shrink:0;position:absolute;left:0;right:0;margin:0 auto;top:0;-webkit-transform:translateY(-50%);transform:translateY(-50%)}.builets__item p{text-align:center;color:#000;margin:0;font-weight:bold}.sect1{background:-webkit-gradient(linear, left top, left bottom, from(#ba1a5d), color-stop(99.39%, #306ec7));background:linear-gradient(180deg, #ba1a5d 0%, #306ec7 99.39%);padding-bottom:0}@media (min-width: 1200px){.sect1{padding:.4rem 0;padding-top:1rem}}.sect1 p{margin:0 0 0.34rem 0;font-weight:normal}.sect1__list{display:-webkit-box;display:-ms-flexbox;display:flex;-webkit-box-orient:vertical;-webkit-box-direction:normal;-ms-flex-direction:column;flex-direction:column;-webkit-box-pack:start;-ms-flex-pack:start;justify-content:flex-start;-webkit-box-align:stretch;-ms-flex-align:stretch;align-items:stretch;-ms-flex-wrap:nowrap;flex-wrap:nowrap;padding-top:0.3rem}@media (min-width: 481px){.sect1__list{margin:0 auto;max-width:4.8rem}}@media (min-width: 1200px){.sect1__list{display:-ms-grid;display:grid;-ms-grid-columns:(1fr)[2];grid-template-columns:repeat(2, 1fr);max-width:100%}}.sect1__item{margin-bottom:0.3rem;display:-webkit-box;display:-ms-flexbox;display:flex;-webkit-box-orient:horizontal;-webkit-box-direction:normal;-ms-flex-direction:row;flex-direction:row;-webkit-box-pack:start;-ms-flex-pack:start;justify-content:flex-start;-webkit-box-align:stretch;-ms-flex-align:stretch;align-items:stretch;-ms-flex-wrap:nowrap;flex-wrap:nowrap}.sect1__item img{width:0.52rem;-ms-flex-negative:0;flex-shrink:0}.sect1__item p{font-weight:bold;padding-left:0.1rem;-ms-flex-item-align:center;-ms-grid-row-align:center;align-self:center;margin:0}@media (min-width: 481px){.sect1 .no-pad{margin:0 auto;-ms-flex-negative:0;flex-shrink:0}}@media (min-width: 1200px){.sect1 .content{display:-webkit-box;display:-ms-flexbox;display:flex;-webkit-box-orient:horizontal;-webkit-box-direction:normal;-ms-flex-direction:row;flex-direction:row;-webkit-box-pack:start;-ms-flex-pack:start;justify-content:flex-start;-webkit-box-align:start;-ms-flex-align:start;align-items:flex-start;-ms-flex-wrap:nowrap;flex-wrap:nowrap}.sect1 .content .no-pad{margin-right:0.2rem;width:50%}}.sect2{background-color:#f1f1f1;color:#000;padding-bottom:0;margin-bottom:-0.1rem}.sect2__content{padding:0 0.2rem}@media (max-width: 1100px){.sect2__content .man{display:none}}@media (min-width: 481px){.sect2__content{display:-webkit-box;display:-ms-flexbox;display:flex;-webkit-box-orient:vertical;-webkit-box-direction:normal;-ms-flex-direction:column;flex-direction:column;-webkit-box-pack:center;-ms-flex-pack:center;justify-content:center;-webkit-box-align:center;-ms-flex-align:center;align-items:center;-ms-flex-wrap:nowrap;flex-wrap:nowrap}}@media (min-width: 1100px){.sect2__content{display:-ms-grid;display:grid;-ms-grid-columns:(4.8rem)[2];grid-template-columns:repeat(2, 4.8rem);-webkit-box-pack:center;-ms-flex-pack:center;justify-content:center;max-width:8rem;margin:0 auto}.sect2__content img{width:100%}.sect2__content img.another{width:100%}}.sect2 img{max-width:4.8rem}.sect2 img.another{width:4.8rem;display:block}@media (max-width: 480px){.sect2 img.another{width:4.2rem;margin:0 auto}}.sect2__item{-webkit-box-shadow:0px 0px 10px rgba(0,0,0,0.25);box-shadow:0px 0px 10px rgba(0,0,0,0.25);border-radius:10px;background-color:#fff;line-height:1.3;margin:0.1rem;margin-bottom:0.2rem;margin-right:0.2rem;position:relative;z-index:2;max-width:4.6rem;-webkit-box-sizing:border-box;box-sizing:border-box}@media (min-width: 1400px){.sect2__item{-ms-flex-negative:0;flex-shrink:0}}.sect2__item:before{content:"";position:absolute;top:0rem;bottom:0rem;right:-0.1rem;width:0.4rem;border-radius:10px;background:-webkit-gradient(linear, left top, left bottom, from(#ba1a5d), color-stop(99.39%, #306ec7));background:linear-gradient(180deg, #ba1a5d 0%, #306ec7 99.39%);z-index:-1}.sect2__item p{margin:0;height:100%;width:100%;border-radius:10px;padding:0.2rem;-webkit-box-sizing:border-box;box-sizing:border-box;background-color:#fff;position:relative}.sect3{background:-webkit-gradient(linear, left top, left bottom, from(#ba1a5d), color-stop(99.39%, #306ec7));background:linear-gradient(180deg, #ba1a5d 0%, #306ec7 99.39%)}@media (min-width: 480px){.sect3__wrapper{max-width:4.8rem;margin:0 auto}}@media (min-width: 980px){.sect3__wrapper{display:-webkit-box;display:-ms-flexbox;display:flex;-webkit-box-orient:horizontal;-webkit-box-direction:normal;-ms-flex-direction:row;flex-direction:row;-webkit-box-pack:center;-ms-flex-pack:center;justify-content:center;-webkit-box-align:center;-ms-flex-align:center;align-items:center;-ms-flex-wrap:nowrap;flex-wrap:nowrap;max-width:900px;margin:0 auto}}.sect3__content{padding:.35rem 0}.sect3__item{display:-webkit-box;display:-ms-flexbox;display:flex;-webkit-box-orient:horizontal;-webkit-box-direction:normal;-ms-flex-direction:row;flex-direction:row;-webkit-box-pack:start;-ms-flex-pack:start;justify-content:flex-start;-webkit-box-align:center;-ms-flex-align:center;align-items:center;-ms-flex-wrap:nowrap;flex-wrap:nowrap;margin-bottom:0.15rem}.sect3__item:last-child{margin-bottom:0}.sect3__item p{margin:0}.sect3__item span{width:0.42rem;height:0.42rem;display:-webkit-box;display:-ms-flexbox;display:flex;-webkit-box-align:center;-ms-flex-align:center;align-items:center;-webkit-box-pack:center;-ms-flex-pack:center;justify-content:center;-ms-flex-negative:0;flex-shrink:0;background:-webkit-gradient(linear, left top, left bottom, from(#fff), to(#d765c1));background:linear-gradient(180deg, #fff 0%, #d765c1 100%);-webkit-box-shadow:0px 4px 4px rgba(0,0,0,0.25);box-shadow:0px 4px 4px rgba(0,0,0,0.25);border-radius:50%;color:#000;font-weight:bold;margin-right:0.3rem}.sect4{color:#000;background-color:#E5E5E5}.list{list-style:none;padding:0;margin:0;padding:0.2rem 0}.list__item{position:relative;padding-left:0.35rem}.list__item:not(:last-child){margin-bottom:0.15rem}.list__item:before{content:"";background-image:url(../../img/tick.svg);background-size:contain;display:block;width:0.24rem;height:0.24rem;position:absolute;left:0;top:0}.desc{display:none}@media (min-width: 772px){.desc{display:block}}.mob{display:block}@media (min-width: 772px){.mob{display:none}}
 /*# sourceMappingURL=main.css.map */

diff --git a/magnifier/apadt/ru/styles/scss/main.scss b/magnifier/apadt/ru/styles/scss/main.scss
@@ -15,7 +15,8 @@
   @media (min-width: 772px) {
     background-image: url(../../img/header_desc.png);
     background-size: cover;
-    background-position: -4rem;
+    background-position: center 1rem;
+    background-repeat: no-repeat;
     @include flex(column, center, center);
     position: relative;
 
